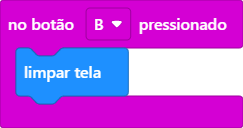
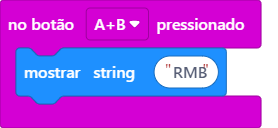
PARA FINALIZAR minha sigla 'RMB'

diff --git a/main.ts b/main.ts
@@ -7,6 +7,9 @@ input.onButtonPressed(Button.A, function () {
         . # . . #
         `)
 })
+input.onButtonPressed(Button.AB, function () {
+    basic.showString("RMB")
+})
 input.onButtonPressed(Button.B, function () {
     basic.clearScreen()
 })
